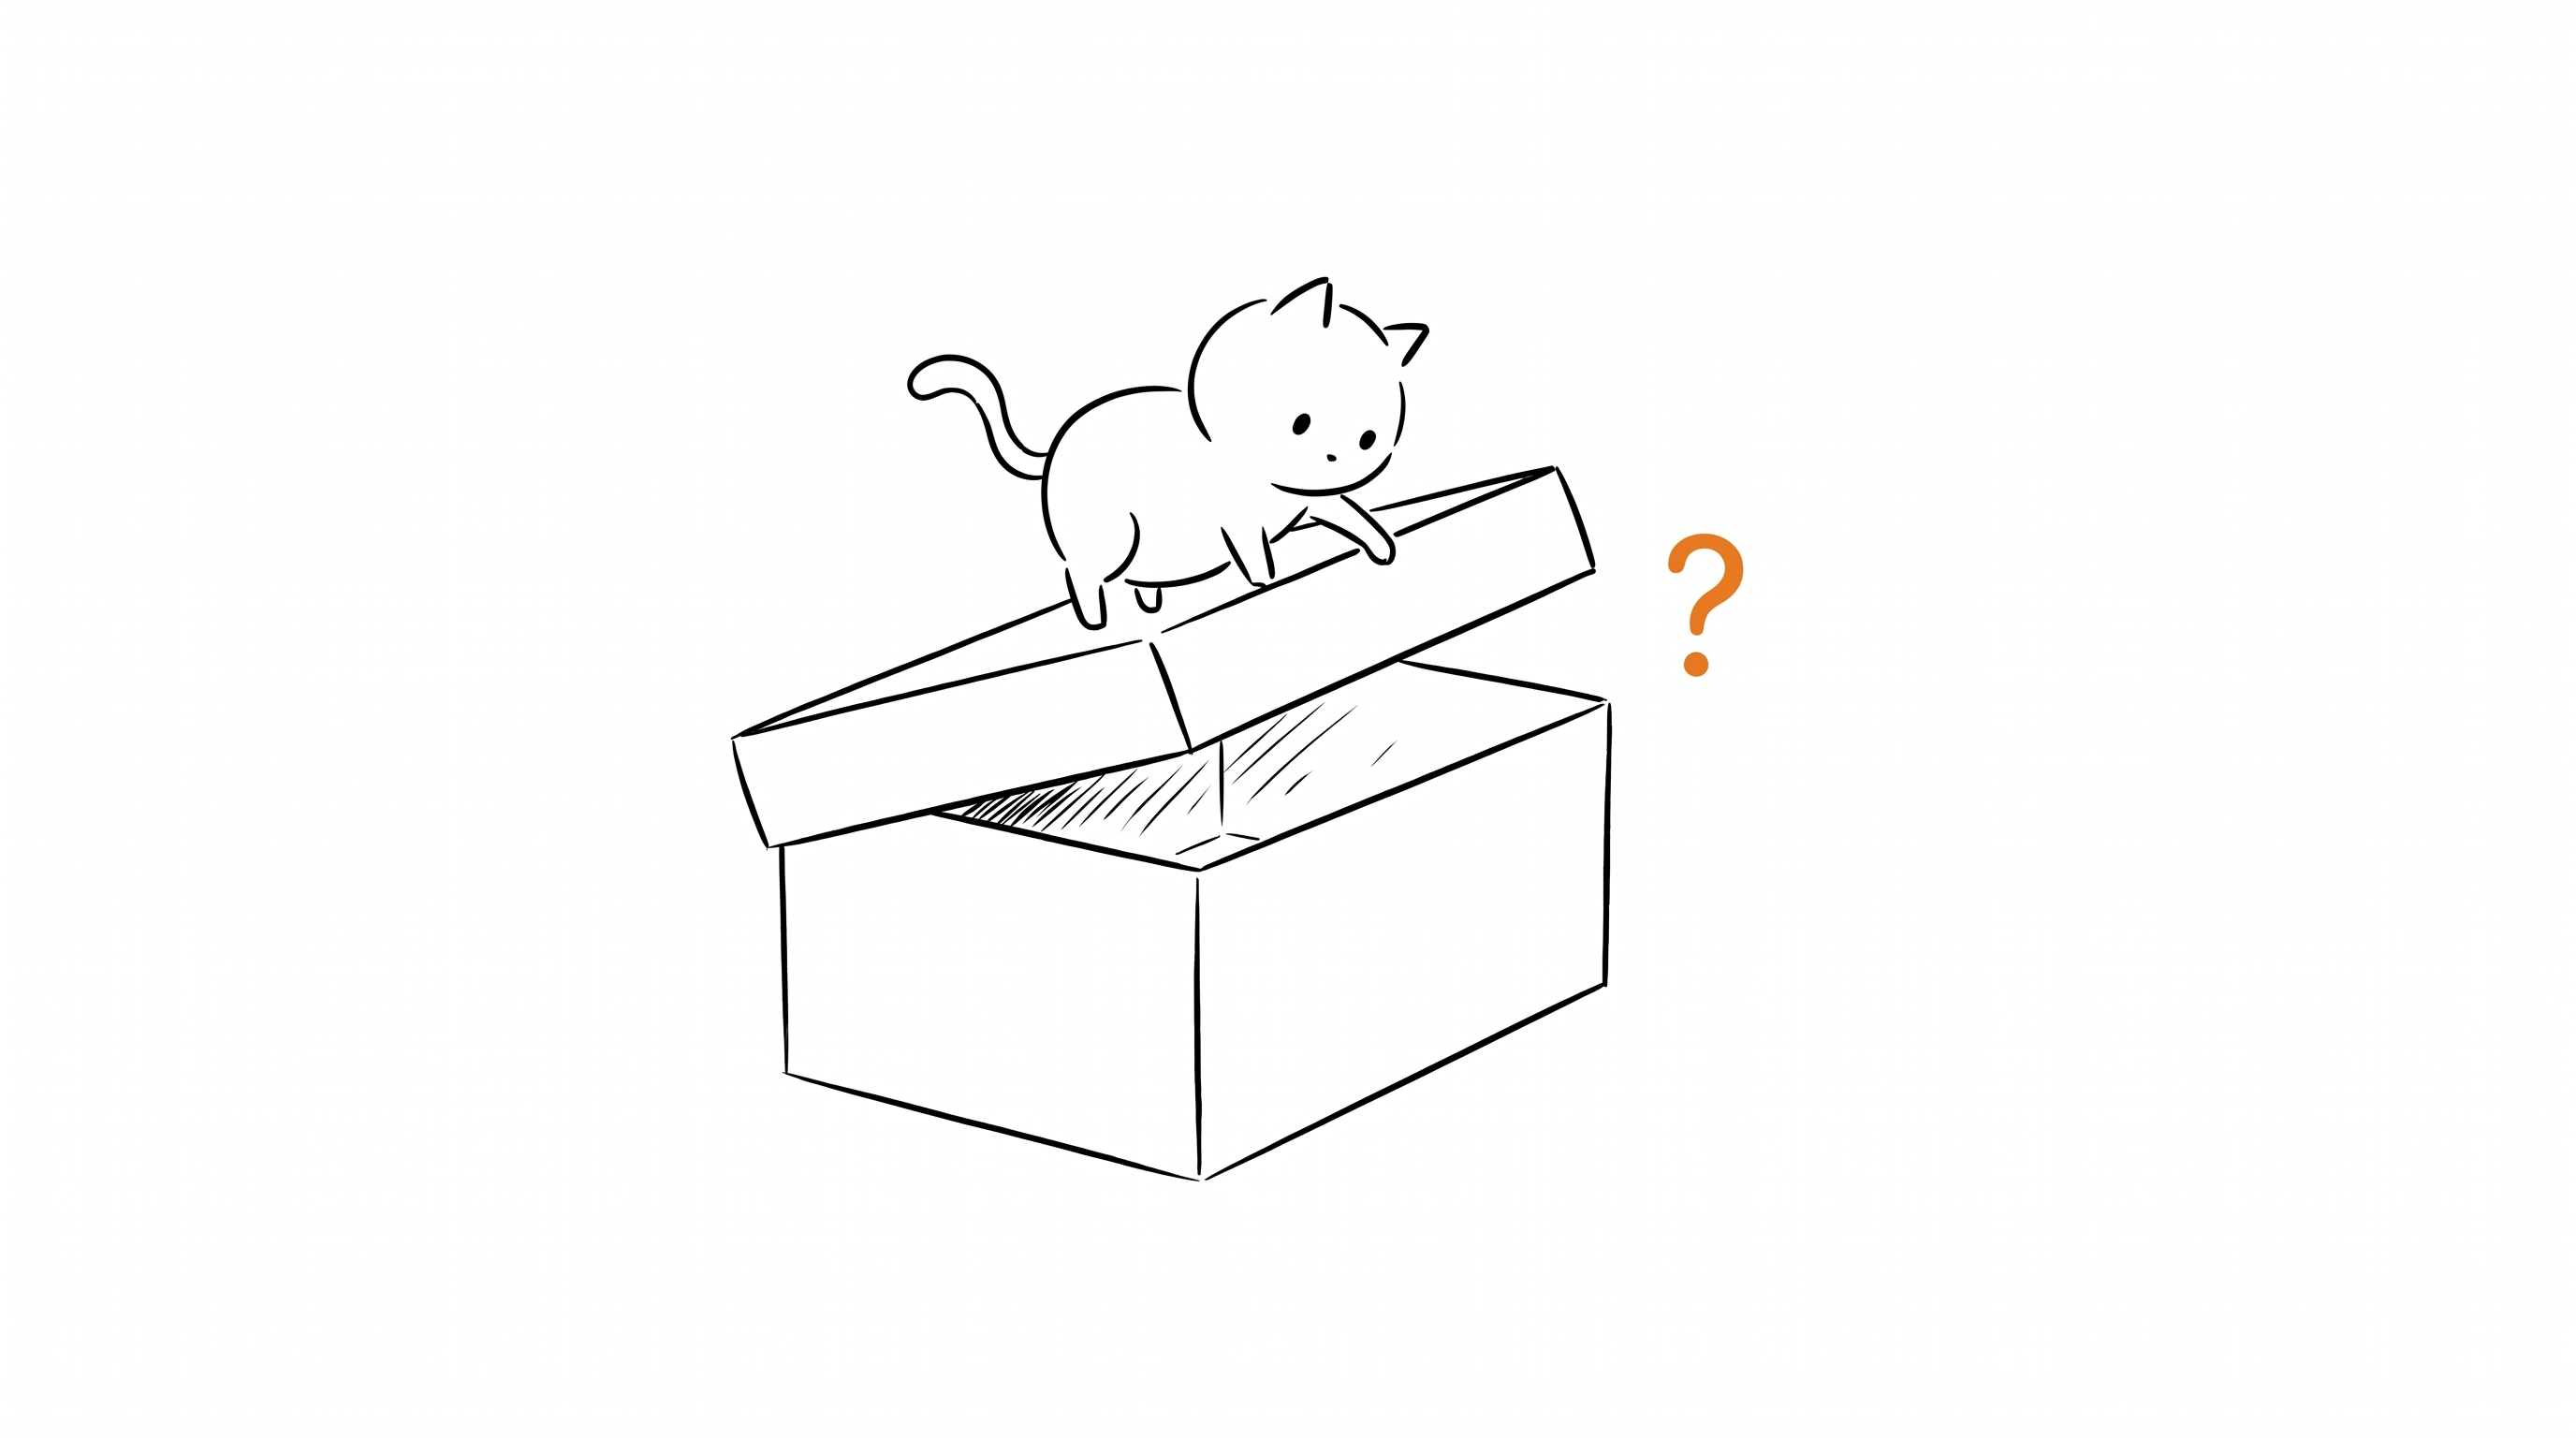
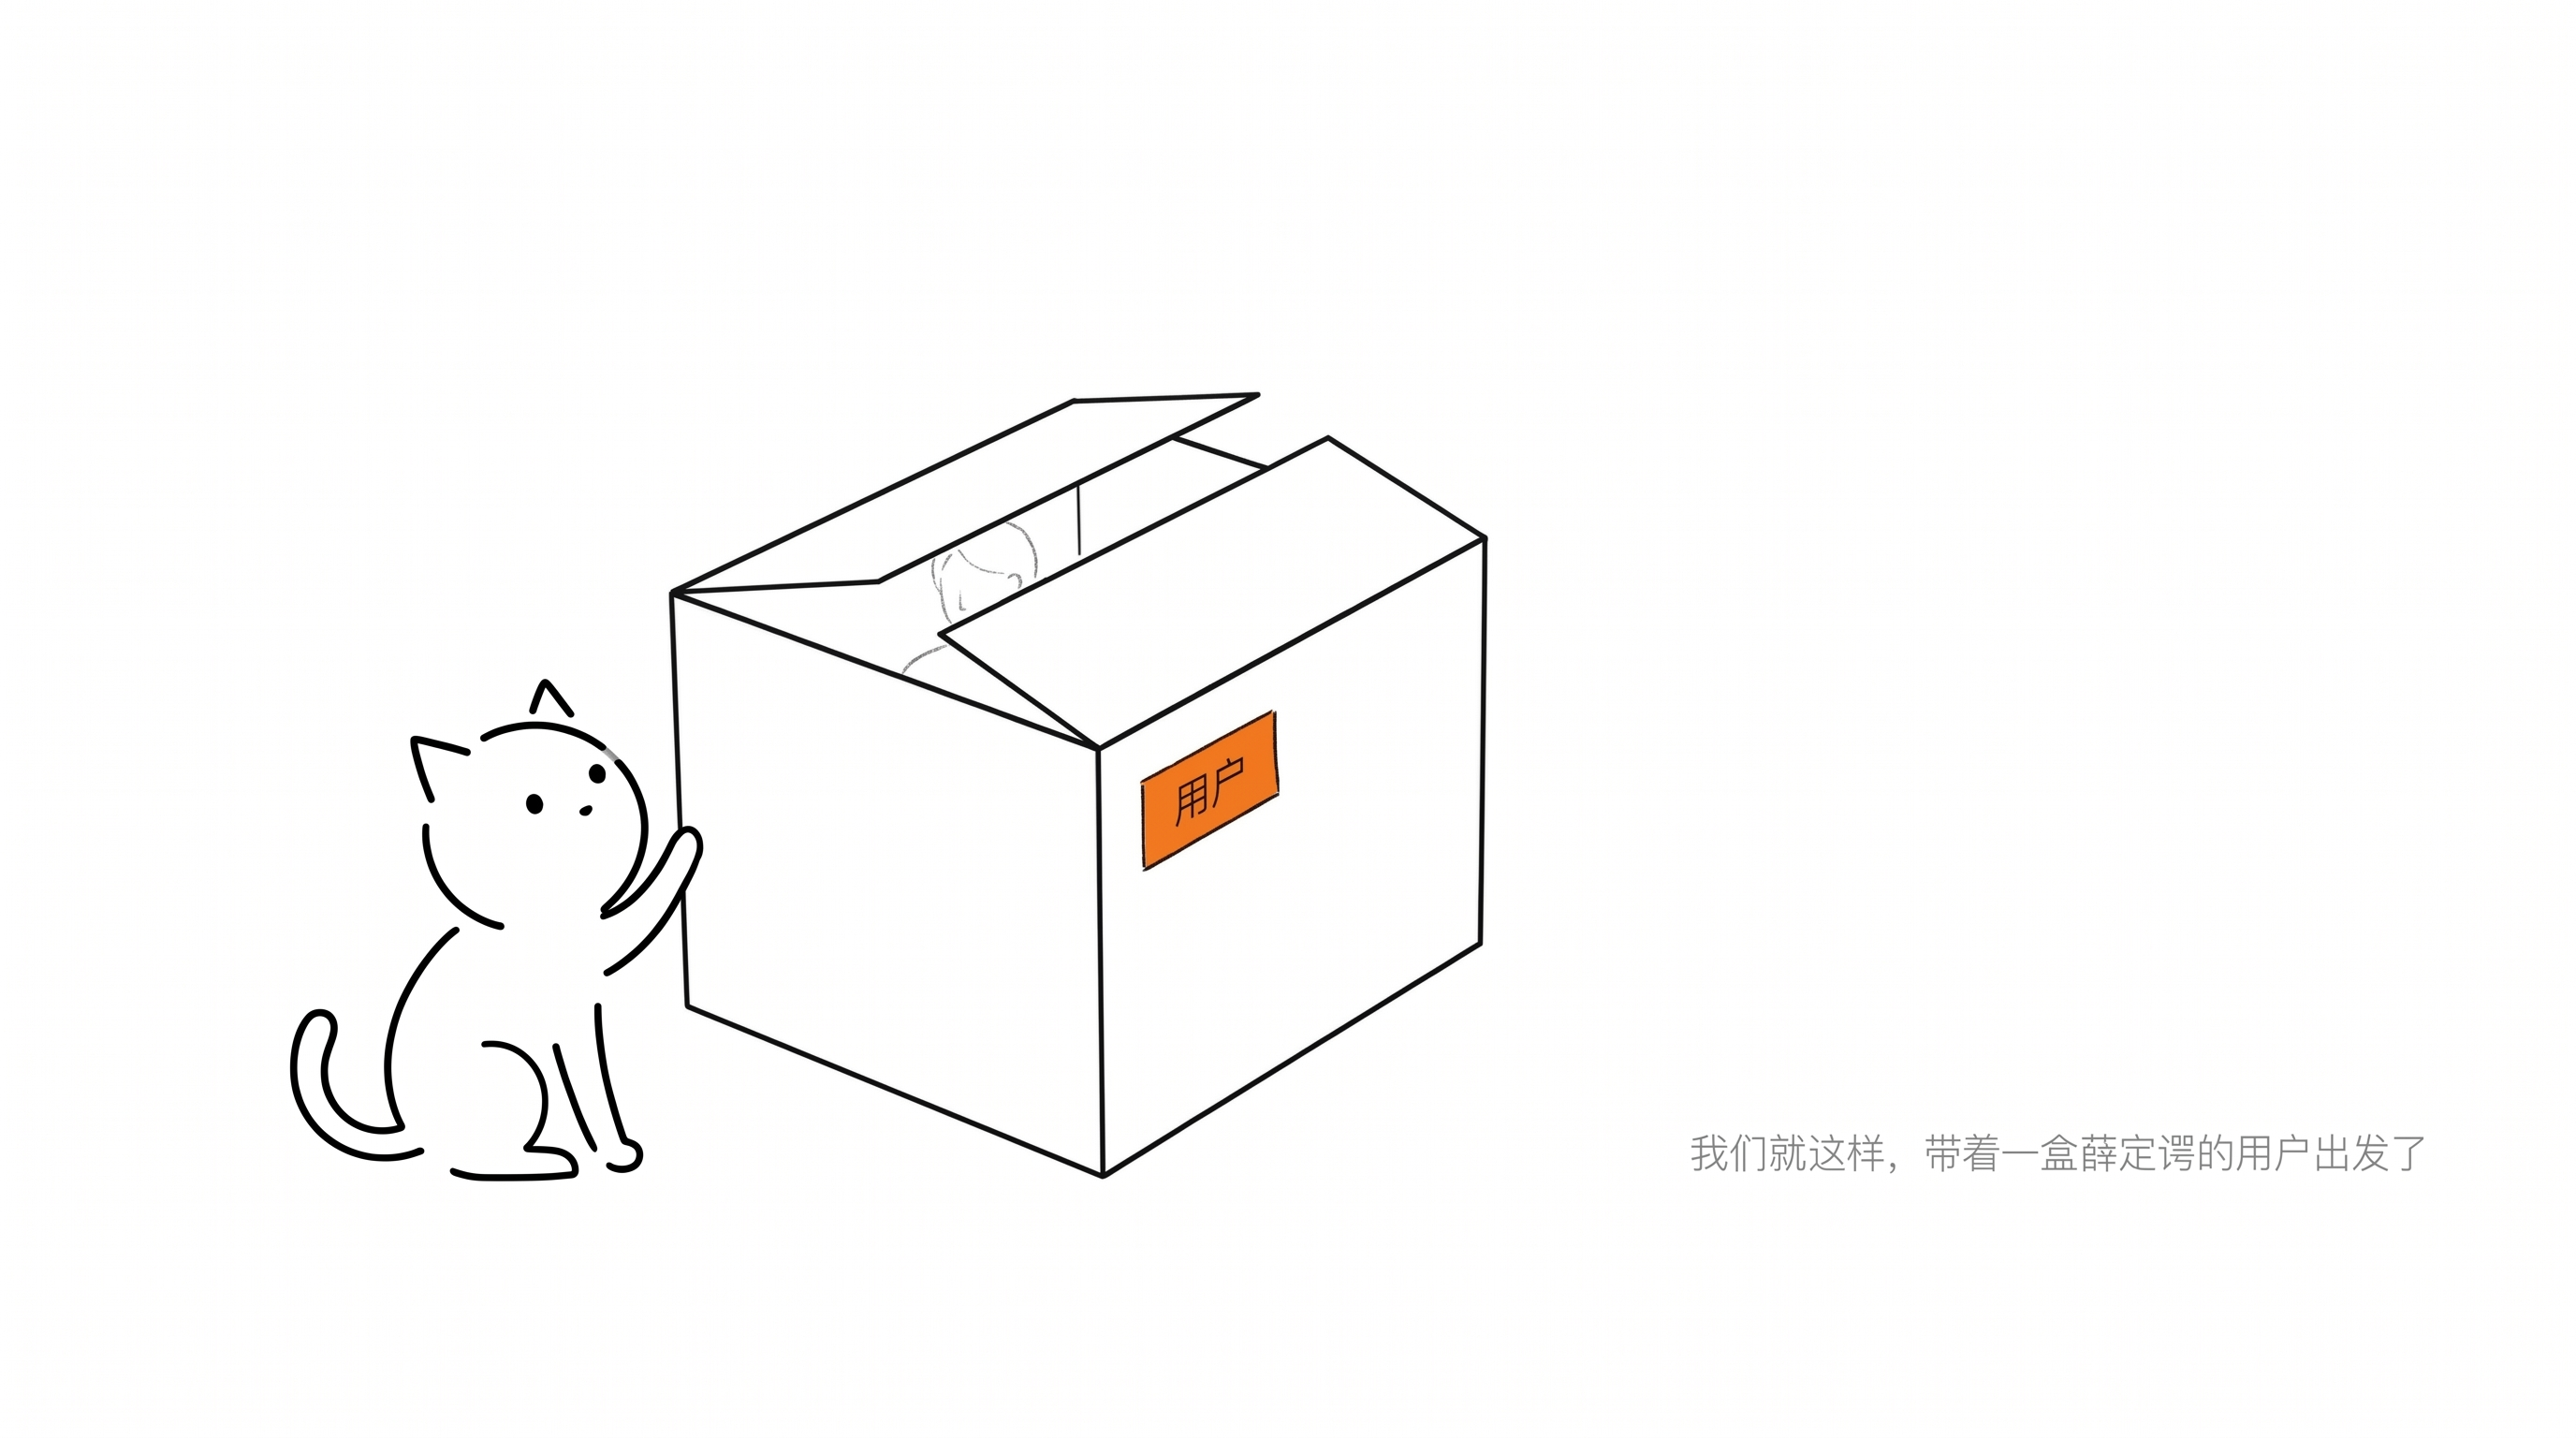
Replace example illustrations with captioned versions from 《置身钉内》
- New examples with gray caption quotes in bottom-right corner:
  - xiaocheng-inbox-overload.png (小橙: message overload)
  - xiaocheng-greedy-scale.png (小橙: greedy product goals)
  - xianren-old-city-wall.png (线人: attractive opportunity in old city)
  - xianmao-schrodinger-user.png (线猫: Schrödinger's user)
- README preserves original style examples (amplifier, subtraction, cover)
- New examples credited to source article with quoted captions
- Each IP demonstrated with concrete, understandable scenes

diff --git a/README.md b/README.md
@@ -15,9 +15,21 @@
 
 ---
 
+## 风格示例
+
+| | |
+|---|---|
+| ![放大器](examples/01-amplifier.png) | ![做减法](examples/02-subtraction.png) |
+
+注意尺度：人永远**极小**，物永远宏大。这种失衡感正是这个风格的签名式戏剧性。
+
+---
+
 ## 角色 IP 系统
 
-这套风格有三个可复用的角色 IP，每个都有固定的形态和性格定义。
+这套风格有三个可复用的角色 IP，每个都有固定的形态定义。它们不是装饰，必须承担图中的核心动作。
+
+以下示例图均取材自阿里内网长文《置身钉内》，每张图右下角标注了原文金句。
 
 ### 小橙（默认角色）
 
@@ -26,19 +38,23 @@
 - 圆形头部（轮廓不填色）+ 两个黑点眼 + 无嘴
 - 窄长方形身体轮廓 + 细线四肢
 - 胸口唯一的橙色圆点 `#F97316` = 整张图的点缀色
-- 必须参与核心动作，不能只是装饰
 
-| 信息爆炸 | 事找人 |
+| 未读消息山 | 贪心天平 |
 |---|---|
-| ![](examples/xiaocheng-info-overload.png) | ![](examples/xiaocheng-tasks-find-you.png) |
+| ![](examples/xiaocheng-inbox-overload.png) | ![](examples/xiaocheng-greedy-scale.png) |
+
+> 左：「再次打开钉钉时，面对的是几十个群里炸开的海量未读消息」
+> 右：「什么都想要，容易什么都得不到」
 
 ### 线人
 
 极简抽象人形——圆形头部 + 一根弧线身体 + 单线四肢。最少的笔画构成"有人在这里"。
 
-| 雨燕不落地 |
+| 旧城风口 |
 |---|
-| ![](examples/xianren-swift-never-lands.png) |
+| ![](examples/xianren-old-city-wall.png) |
+
+> 「站在一个很有吸引力的风口，但风口正处在一片旧城中央」
 
 ### 线猫
 
@@ -48,6 +64,8 @@
 |---|
 | ![](examples/xianmao-schrodinger-user.png) |
 
+> 「我们就这样，带着一盒薛定谔的用户出发了」
+
 ---
 
 ## 风格规范（快速一览）
@@ -55,7 +73,8 @@
 - **线条**：细黑墨线，手绘微抖，不机械
 - **背景**：纯白，不要纸纹、渐变、阴影
 - **点缀色**：唯一暖橙 `#F97316`，落在最有意义的那个元素上
-- **人物**：极小。物永远宏大，人永远渺小，这种失衡感是签名式戏剧性
+- **人物**：极小。物永远宏大，人永远渺小
+- **金句标注**：右下角灰色小字，安静、可读、不喧宾夺主
 - **气质**：witty, restrained, intelligent
 
 详见 `SKILL.md` 和 `references/` 目录下的完整规范。
@@ -72,7 +91,7 @@
 给这篇文章配三张橙线风格插图
 ```
 
-流程：提炼隐喻 → 设计场景 → 生成候选 → 人来挑选
+流程：提炼金句 → 设计具体场景 → 生成候选 → 人来挑选
 
 ### 工作流 B：PPT 演讲稿
 
@@ -88,7 +107,7 @@
 
 ---
 
-## 里面有什么
+## 目录结构
 
 ```
 .